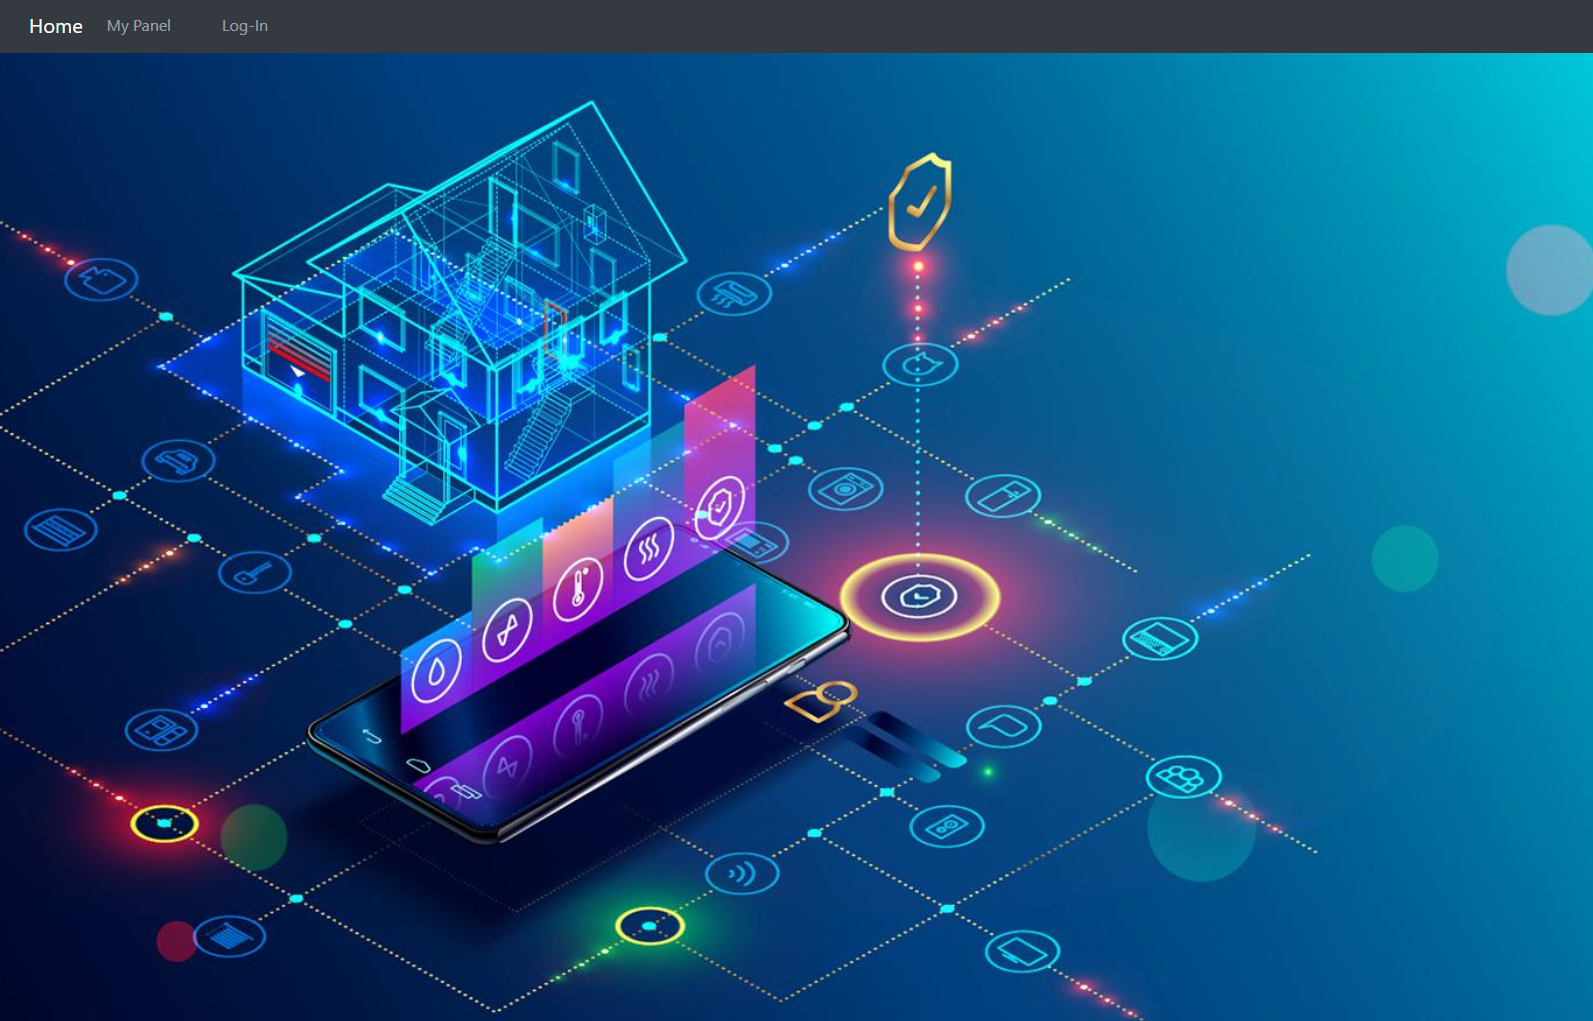
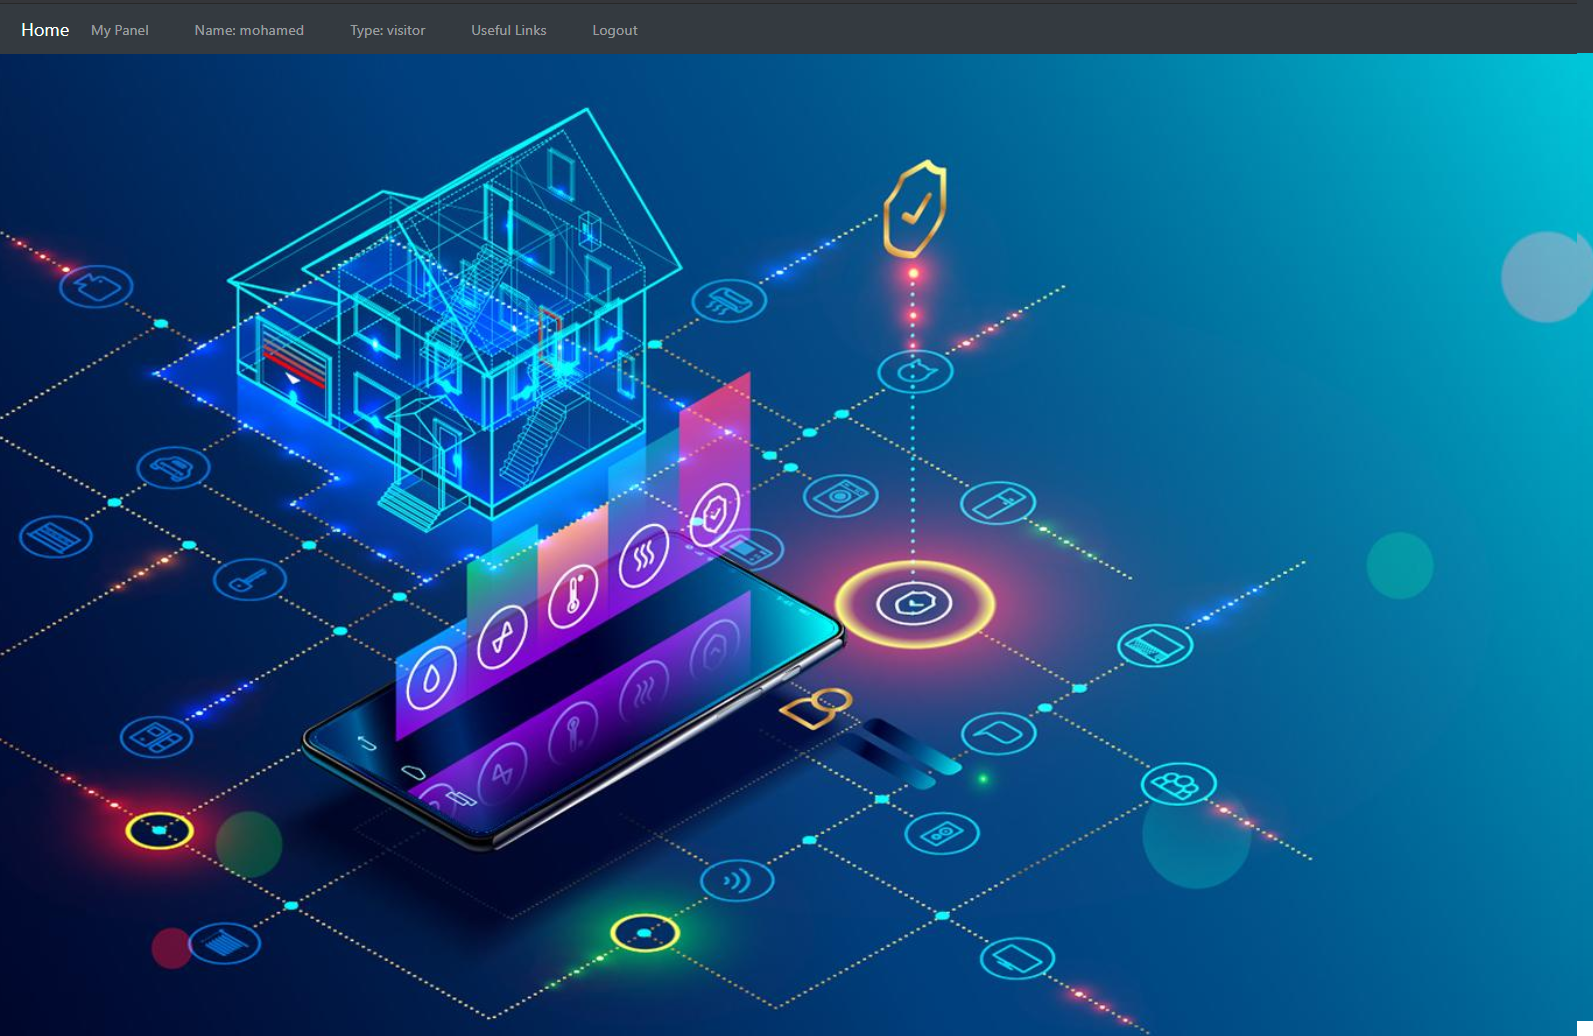
clear

diff --git a/public/js/login.js b/public/js/login.js
@@ -7,12 +7,17 @@ function login(email, password) {
         success: function (response) {
             var token = response["token"];
             var type = response["type"];
+            var name = response["fname"];
 
             localStorage.setItem('token', token);
             localStorage.setItem('type', type);
+            localStorage.setItem('name', name);
 
             if (type == 1) { window.location.href = '/admin'; }
             else if (type == 2) { window.location.href = '/visitor'; }
+
+
+
         },
         error: (err) => {
             var x = JSON.stringify(err);

diff --git a/resources/views/home.blade.php b/resources/views/home.blade.php
@@ -32,11 +32,17 @@
 </div></div></div>
 
 <script type="text/javascript">
-    var token = localStorage.getItem("token");  var type  = localStorage.getItem("type");
-    console.log(token);     console.log(type);
 
-    if(token == null){ $("#logout").hide(); }
+    var token=localStorage.getItem("token");  var type=localStorage.getItem("type");
+    var name=localStorage.getItem("name");
 
+    console.log(token);     console.log(type);  console.log(name);
+    if(type==1){disply="admin"}else {disply="visitor"}
+    $("#Name").html(`<a>Name: ${name}</a>`);
+    $("#Type").html(`<a>Type: ${disply}</a>`);
+
+
+    if(token == null){     $("#logout").hide();}
     else if(token != null){ $("#create").hide()  }
 
     $('#mypanel').click(function(event){ event.preventDefault();
@@ -44,6 +50,9 @@
         if(type==2){ window.location.href = '/visitor'; }  })
 
     $('#login').click(function(event){
+
+
+
         event.preventDefault();
         let email1 = $("input[name=email]").val();
         let pass = $("input[name=pass]").val();

diff --git a/resources/views/navhome.blade.php b/resources/views/navhome.blade.php
@@ -10,5 +10,12 @@
                     <li class="nav-item"><a id="mypanel" class="nav-link" href="#">My Panel</a> </li>
                     <li class="nav-item">
                         <a id="create" data-bs-toggle="collapse" class="nav-link" href="#collapseExample">Log-In</a> </li>
+
+                        <li class="nav-link" id="Name"> User Name</li>
+                        <li class="nav-link" id="Type"> User Type</li>
+
+
+                        <li class="nav-item"> <a class="nav-link" id="#"  href="https://ibrahimahmed1998.github.io/QuickAccess/HTML/index.html">Useful Links</a> </li>
+
                  <li class="nav-item"> <a class="nav-link" id="logout"  href="#">Logout</a> </li>
 </ul></div></div></nav>
